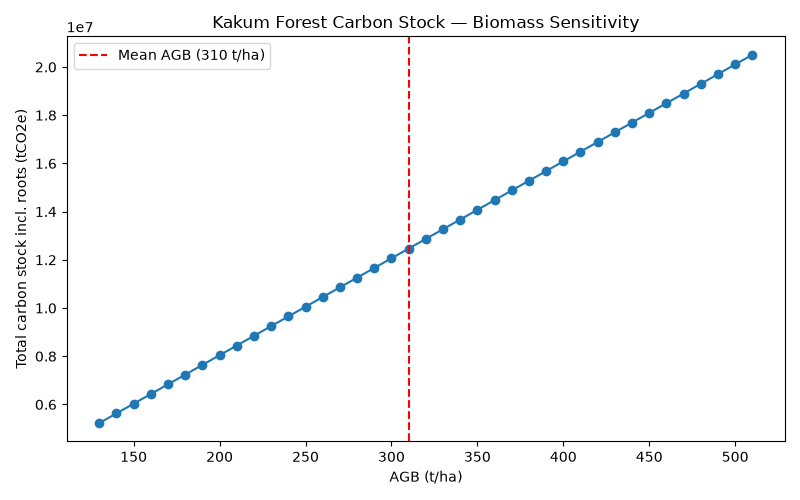
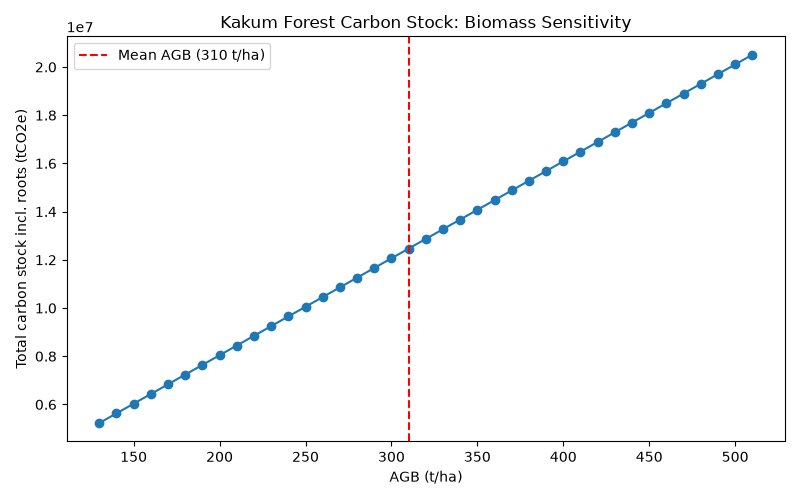
Add VM0048 methodology note; remove em dashes repo-wide
METHODOLOGY.md explains the VM0048 jurisdictional baseline: what it is,
why it replaced project-set baselines in 2023, how it would slot into
this project's workflow, and Ghana's current data-availability status
-- scoping honestly what this prototype does and doesn't cover.

Also swept every tracked doc/code comment (README, ROADMAP, the GEE
script header, the chart title) for em dashes and replaced them with
plainer punctuation, regenerating the chart to match.

Changed region(s): [[0.25, 0.03, 0.8125, 0.06]]

diff --git a/gee/classify_forest.js b/gee/classify_forest.js
@@ -1,5 +1,5 @@
 // ============================================================
-// FOREST CARBON MRV — KAKUM NATIONAL PARK, GHANA
+// FOREST CARBON MRV: KAKUM NATIONAL PARK, GHANA
 // Google Earth Engine (JavaScript). Pixel + classification half
 // of the pipeline; exports a classified GeoTIFF that the Python
 // package (../) reads for carbon accounting and uncertainty.

diff --git a/run.py b/run.py
@@ -70,7 +70,7 @@ def write_sensitivity_chart(config, sensitivity_rows):
     )
     ax.set_xlabel("AGB (t/ha)")
     ax.set_ylabel("Total carbon stock incl. roots (tCO2e)")
-    ax.set_title("Kakum Forest Carbon Stock — Biomass Sensitivity")
+    ax.set_title("Kakum Forest Carbon Stock: Biomass Sensitivity")
     ax.legend()
     fig.tight_layout()
 

diff --git a/METHODOLOGY.md b/METHODOLOGY.md
@@ -1,0 +1,101 @@
+# Methodology note: the VM0048 jurisdictional baseline
+
+## Why this note exists
+
+This project reproduces the *measurement* side of a forest-carbon estimate: it maps
+forest and quantifies the carbon standing in it. A real Verra REDD+ registration
+needs one more thing that this prototype deliberately does not generate: a
+**baseline**, the counterfactual against which forest loss is measured. This note
+explains what that baseline is under the current methodology (VM0048), why it sits
+outside the developer's hands, and how it would slot into the workflow here. It's
+here so the repo shows an understanding of the piece it doesn't build, rather than
+quietly ignoring it.
+
+## What changed in 2023
+
+Older REDD+ methodologies let each project set its own baseline: its own estimate
+of how much deforestation "would have happened" without the project. That freedom
+was a well-documented source of over-crediting, because developers could choose
+assumptions that inflated the counterfactual and therefore the credits.
+
+VM0048, approved in late 2023, removes that freedom. Baselines are now standardised
+at the level of a whole jurisdiction (a country or a state/province) and produced by
+independent data providers appointed by Verra, not by the project. The project no
+longer draws its own baseline; it is allocated a share of a jurisdiction-wide one.
+
+## What the jurisdictional baseline actually is
+
+At its core it is a **deforestation-risk map**: a spatial layer covering an entire
+jurisdiction that estimates, pixel by pixel, how likely forest loss is. It is built
+from two time components:
+
+- A **historical reference period (HRP)**, roughly ten years, over which past forest
+  cover and loss are mapped for the whole jurisdiction.
+- A **baseline validity period (BVP)**, the six years following the HRP, over which
+  that historical pattern is projected forward as expected deforestation risk.
+
+Two versions exist. An open-access, lower-resolution version (1 ha pixels) lets
+developers do feasibility and due diligence. To actually register, a developer must
+obtain the finer, methodology-compliant (VMD0055) risk data for their specific
+project area, through Verra's data-allocation process. The project's expected
+baseline emissions are then the share of jurisdictional deforestation risk allocated
+to its polygon.
+
+## How it would slot into this project
+
+The important precision: the baseline would **not replace the classification** in
+this repo. It replaces the *counterfactual*, the "what would have happened anyway"
+line. The measurement machinery here still does its job. In a full registration the
+pieces fit together like this:
+
+1. **Activity data (this project's classification).** Map forest, and (with a second
+   image date, which this prototype doesn't yet have) measure actual forest loss
+   over the period.
+2. **Baseline (external, from Verra).** The allocated jurisdictional risk gives the
+   expected loss for the same area over the same period.
+3. **Emission reductions.** Compare measured loss against the allocated baseline; the
+   difference, converted to CO2e with emission factors, is what gets credited.
+
+So the classification and carbon accounting built here are steps 1 and part of 3. The
+baseline is the input to step 2 that only Verra's jurisdictional data can provide.
+
+## Where the baseline comes from, and Ghana's current status
+
+The risk maps are being rolled out jurisdiction by jurisdiction, on a rolling basis,
+rather than all at once. As of Verra's jurisdictional data table dated May 2026,
+released maps covered a limited set of jurisdictions: several Brazilian states had
+provisional maps, and a first round of 2026 assignments covered jurisdictions such as
+Argentina, Equateur Province in the DRC, and the Philippines. Ghana was not among the
+jurisdictions publicly reported as having a released map at that point.
+
+Because this status changes as Verra publishes more maps, the authoritative place to
+check whether Ghana (and therefore Kakum) has an available baseline is **Verra's
+VMD0055 Jurisdictional Data Table**, which Verra updates as each jurisdiction moves
+through the mapping pipeline. If and when Ghana's map is published, a project in Kakum
+would draw its baseline from that, not from any layer produced in this repo.
+
+## What this means for this prototype
+
+Two honest consequences, both worth stating rather than hiding:
+
+- This prototype **cannot** produce a registration-grade baseline, by design. Under
+  VM0048 that would be an external input, and for Ghana it may not exist yet.
+- What this prototype *does* build (the forest map, the area, the emission factors,
+  the carbon stock, the uncertainty) is exactly the developer-side measurement work
+  that sits alongside the jurisdictional baseline. That is the honest scope: the
+  measurement half, done properly, with the baseline half correctly identified as
+  external.
+
+## Sources
+
+- Verra, VMD0055 Jurisdictional Data Table (status of risk maps by jurisdiction):
+  https://verra.org/methodologies-main/vmd0055-jurisdictional-data-table/
+- Verra, "Releases Provisional Versions of Allocated Deforestation Risk Maps":
+  https://verra.org/verra-releases-provisional-versions-of-allocated-deforestation-risk-maps-for-new-redd-methodology/
+- Space Intelligence, "Breaking Down VM0048: How Risk Maps Change REDD+ Baselines":
+  https://www.space-intelligence.com/breaking-down-vm0048-how-risk-maps-change-redd-baselines/
+- Space Intelligence, "Verra's VM0048 Frequently Asked Questions" (HRP vs BVP):
+  https://www.space-intelligence.com/verra-vm0048-faq/
+
+*Note: the Ghana status above reflects information available around mid-2026. Confirm
+the current status against Verra's data table before relying on it.*

diff --git a/README.md b/README.md
@@ -1,7 +1,7 @@
 # Kakum Forest Carbon MRV
 
 A satellite-based forest carbon Measurement, Reporting & Verification (MRV) prototype
-for Kakum National Park, Ghana — structured to mirror the measurement logic of a
+for Kakum National Park, Ghana, structured to mirror the measurement logic of a
 real Verra REDD+ (VM0048) project. Google Earth Engine handles the pixel
 classification; a tested Python package handles area verification, carbon
 accounting, and uncertainty analysis.
@@ -30,15 +30,15 @@ flowchart LR
     F --> G["results_summary.csv<br/>biomass_sensitivity.csv<br/>sensitivity_plot.png"]
 ```
 
-1. **Classification (Google Earth Engine)** — a Random Forest classifier trained on
+1. **Classification (Google Earth Engine)**: a Random Forest classifier trained on
    2023 Sentinel-2 imagery separates forest from non-forest across the official WDPA
    "Kakum" boundary (95.5% held-out accuracy). See [`gee/`](gee/). A simple NDVI
-   threshold doesn't work here — forest and surrounding farmland differ by only
+   threshold doesn't work here: forest and surrounding farmland differ by only
    ~0.04 in NDVI in this humid landscape, so the classifier instead uses
    shortwave-infrared bands to tell them apart.
-2. **Export** — the classified raster is exported as a GeoTIFF (EPSG:32630, 10 m
+2. **Export**: the classified raster is exported as a GeoTIFF (EPSG:32630, 10 m
    pixels) into [`data/`](data/).
-3. **Analysis (this Python package)** — [`run.py`](run.py) reads the GeoTIFF, computes
+3. **Analysis (this Python package)**: [`run.py`](run.py) reads the GeoTIFF, computes
    forest area from the pixel count, applies IPCC Tier 1 biomass defaults to get
    carbon stock, and propagates uncertainty (classification error and biomass-default
    range, combined in quadrature) through to a conservative lower-bound estimate.
@@ -47,7 +47,7 @@ flowchart LR
 
 The 95.5%-accurate classifier contributes only ~4.5% of the total error. The other
 ~61% comes from the IPCC Tier 1 biomass default (a continent-wide average with a
-130–510 t/ha range) — not from the map. That diagnosis is what motivates the planned
+130–510 t/ha range), not from the map. That diagnosis is what motivates the planned
 next step: swapping in site-specific biomass from NASA's GEDI spaceborne lidar,
 which should narrow the range substantially. See [`ROADMAP.md`](ROADMAP.md) for the
 full plan.
@@ -57,6 +57,7 @@ full plan.
 ```
 README.md               Project overview (this file)
 ROADMAP.md              Planned Tier 2 (GEDI biomass) upgrade
+METHODOLOGY.md          Note on the VM0048 jurisdictional baseline
 gee/                    Earth Engine classifier script
 data/                   Input GeoTIFF (classified raster from GEE)
 carbon_mrv/             Python package: area, carbon, and uncertainty calculations
@@ -95,14 +96,15 @@ Run the tests:
 
 ## Honest limitations
 
-- This is a carbon **stock** at a single date, not an emissions estimate — an
+- This is a carbon **stock** at a single date, not an emissions estimate: an
   emissions figure needs a second image date to measure change over time.
 - Biomass uses IPCC Tier 1 (continent-average) defaults, hence the wide uncertainty
   range; see "Why the uncertainty matters" above.
-- This is a portfolio prototype, not a registered carbon credit. A real Verra VM0048
-  project would substitute Verra's jurisdictional baseline for the classification
-  step shown here.
+- This is a portfolio prototype, not a registered carbon credit. It reproduces the
+  measurement side (forest map, area, carbon stock); a real Verra VM0048 project
+  also needs an external jurisdictional baseline, which a developer does not
+  produce. See [`METHODOLOGY.md`](METHODOLOGY.md) for the full explanation.
 
 ## License
 
-MIT — see [`LICENSE`](LICENSE).
+MIT. See [`LICENSE`](LICENSE).

diff --git a/ROADMAP.md b/ROADMAP.md
@@ -15,17 +15,17 @@ The uncertainty analysis in the Tier 1 pipeline showed the error budget is lopsi
 The classifier is already good. Almost all of the remaining uncertainty comes from
 using a single continent-wide biomass default (310 t/ha) instead of a measurement
 specific to this forest. That makes site-specific biomass the highest-value next
-improvement — well ahead of any further tweak to the classifier.
+improvement, well ahead of any further tweak to the classifier.
 
 ```mermaid
 flowchart LR
-    subgraph T1["Tier 1 — done"]
+    subgraph T1["Tier 1 (done)"]
         direction TB
-        A1["IPCC default AGB<br/>310 t/ha (range 130–510)"]
+        A1["IPCC default AGB<br/>310 t/ha (range 130-510)"]
         A1 --> B1["carbon_mrv chain"]
         B1 --> C1["±61% uncertainty"]
     end
-    subgraph T2["Tier 2 — planned"]
+    subgraph T2["Tier 2 (planned)"]
         direction TB
         A2["GEDI L4A lidar shots<br/>filtered, park-specific"]
         A2 --> B2["mean + SD AGBD"]
@@ -39,14 +39,14 @@ flowchart LR
 
 GEDI is NASA's spaceborne lidar. Two products matter:
 
-- **L4A — footprint above-ground biomass density (AGBD), in Mg/ha (= t/ha)**, per
+- **L4A: footprint above-ground biomass density (AGBD), in Mg/ha (= t/ha)**, per
   ~25 m footprint. Site-specific but sparse: scattered shots with gaps, not a
   wall-to-wall map. This is the genuine Tier 2 input.
-- **L4B — gridded mean AGBD at 1 km.** Coarser, already modelled/gap-filled. Simpler
+- **L4B: gridded mean AGBD at 1 km.** Coarser, already modelled/gap-filled. Simpler
   if a single park-mean biomass is enough to replace the 310 default.
 
 Both are in the Earth Engine catalog. Confirm the current asset IDs in the EE Data
-Catalog before using (IDs get versioned) — as of last check they were roughly:
+Catalog before using (IDs get versioned); as of last check they were roughly:
 
 - L4A: `LARSE/GEDI/GEDI04_A_002_MONTHLY` (band `agbd`; quality bands too)
 - L4B: `LARSE/GEDI/GEDI04_B_002`
@@ -55,7 +55,7 @@ Catalog before using (IDs get versioned) — as of last check they were roughly:
 
 1. Load GEDI L4A over the park boundary.
 2. Filter to good shots: keep `l4_quality_flag == 1` and `degrade_flag == 0` (drop
-   low-quality / degraded-orbit footprints). This step matters — unfiltered GEDI is
+   low-quality / degraded-orbit footprints). This step matters: unfiltered GEDI is
    noisy.
 3. Reduce the surviving `agbd` values to a **mean (and standard deviation)** inside
    the forest area of the park. That mean AGBD replaces the 310 t/ha default.
@@ -63,11 +63,11 @@ Catalog before using (IDs get versioned) — as of last check they were roughly:
    AGBD → ×(1 + root:shoot) → ×0.47 → ×44/12 → × forest hectares.
 5. For uncertainty, swap the ±61% Tier 1 biomass range for GEDI's own spread (e.g.
    standard error of the mean AGBD, or the footprint SD). This is what *narrows* the
-   error bar — the whole point of the upgrade.
+   error bar, the whole point of the upgrade.
 
 ## Staying honest
 
-- The GEDI mean may come back **higher or lower than 310** — the headline carbon
+- The GEDI mean may come back **higher or lower than 310**: the headline carbon
   number can move in either direction. That's expected; it's a finding, not a bug.
 - GEDI has its own uncertainty, so Tier 2 gives a **narrower but still real** range,
   not a precise point. Narrower and measured beats wide and defaulted.
